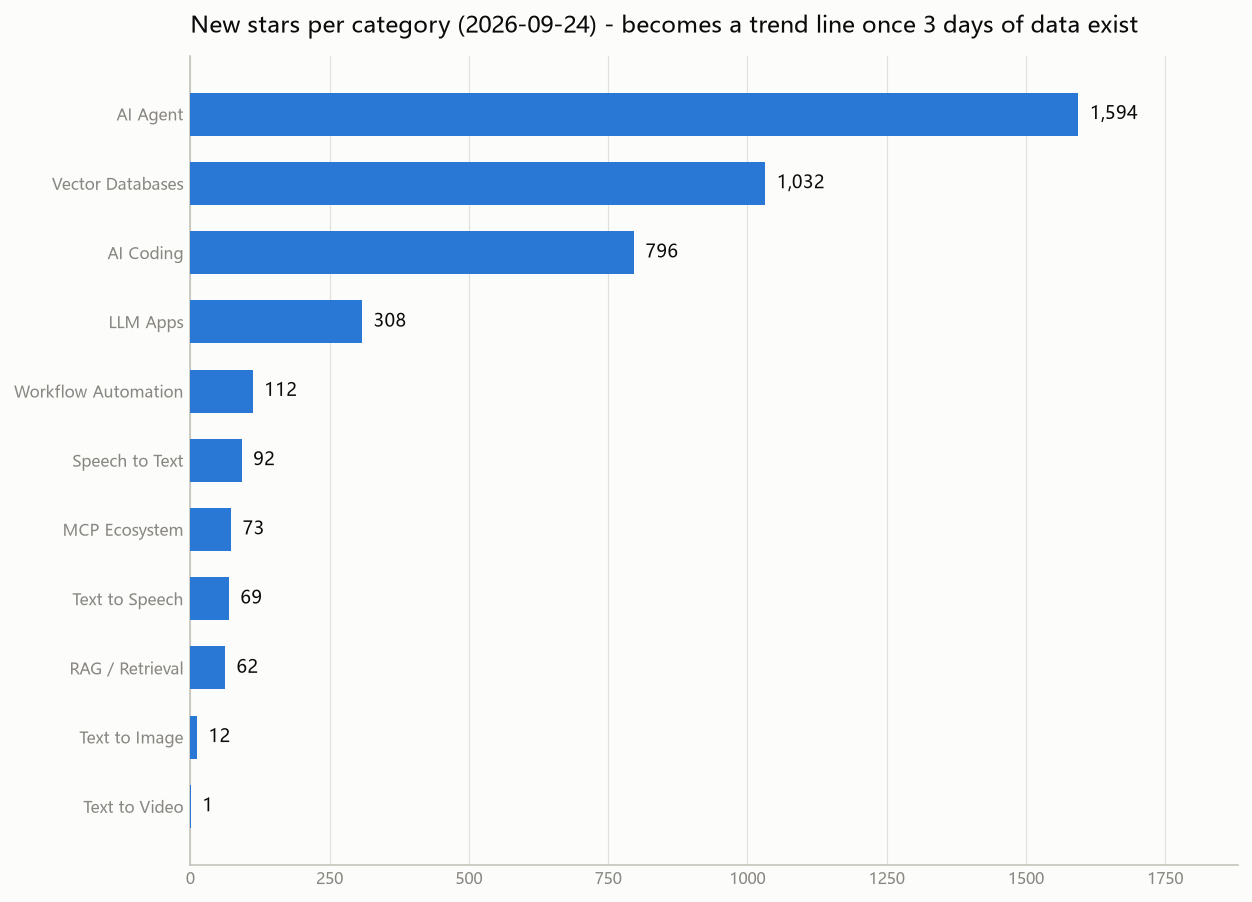
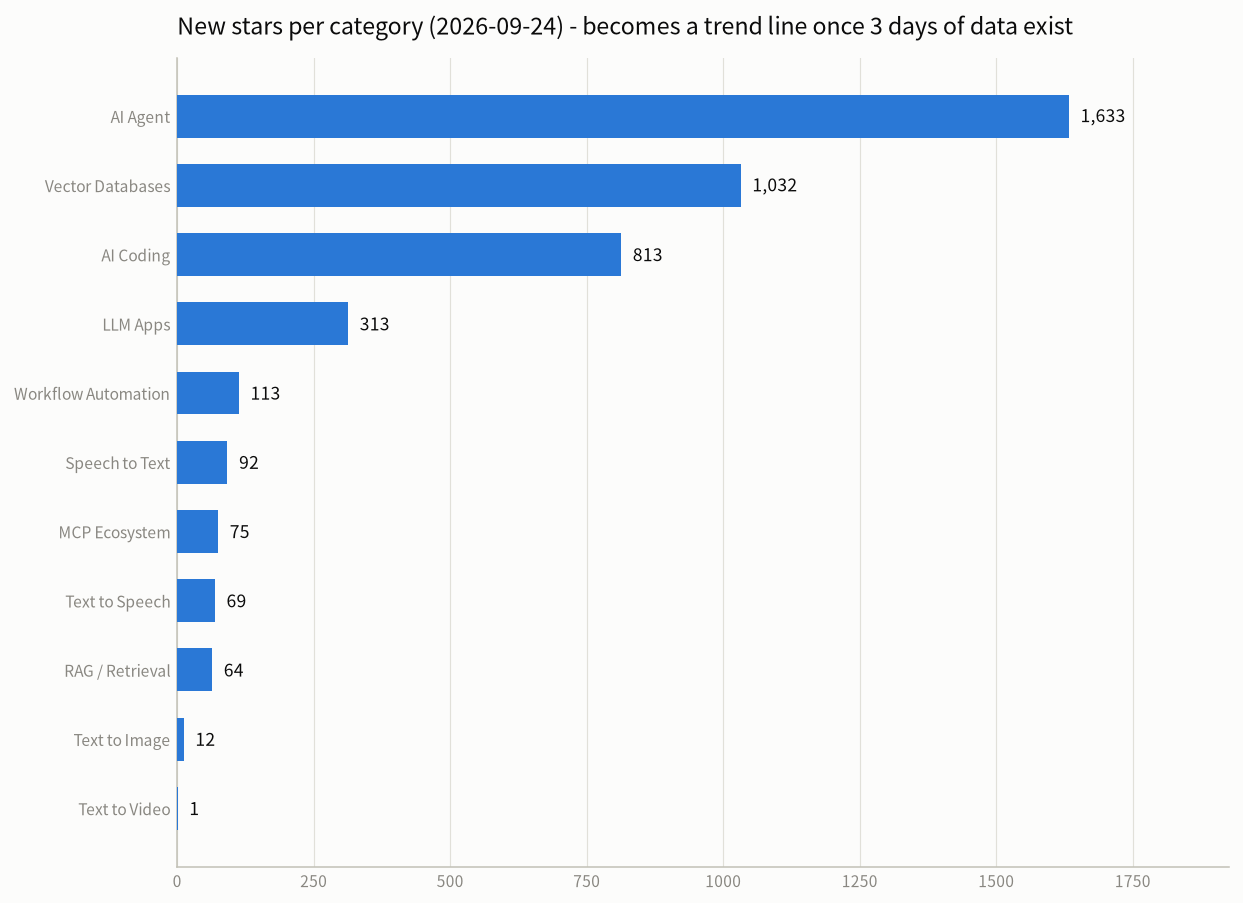
采集 2026-09-24

diff --git a/reports/2026-09-24.md b/reports/2026-09-24.md
@@ -8,7 +8,7 @@
 | AI 编程 | 25 | 28775 | 2026-05-13 | 0 |
 | LLM 应用 | 25 | 25101 | 2026-04-08 | 0 |
 | 语音合成 TTS | 25 | 7236 | 2026-05-20 | 0 |
-| MCP 生态 | 25 | 6416 | 2025-12-23 | 1 |
+| MCP 生态 | 25 | 6416 | 2025-12-23 | 0 |
 | RAG 检索增强 | 25 | 3115 | 2026-01-20 | 0 |
 | 语音识别 STT | 25 | 3030 | 2026-06-04 | 0 |
 | 向量数据库 | 25 | 2242 | 2026-03-16 | 0 |
@@ -21,45 +21,43 @@
 
 | 品类 | 项目 | star | 增量 | 说明 |
 |---|---|---|---|---|
-| 向量数据库 | [rocketride-org/rocketride-server](https://github.com/rocketride-org/rocketride-server) | 10470 | **+997** | High-performance AI pipeline engine with a C++ core and 50+ Python-ex… |
-| AI Agent | [DietrichGebert/ponytail](https://github.com/DietrichGebert/ponytail) | 145030 | **+376** | Makes your AI agent think like the laziest senior dev in the room. Th… |
-| AI Agent | [bojieli/ai-agent-book](https://github.com/bojieli/ai-agent-book) | 50468 | **+213** | 《深入理解 AI Agent：设计原理与工程实践》（李博杰 著）开源主仓库：全书正文、编译版 PDF 与按章配套代码 |
-| AI Agent | [earendil-works/pi](https://github.com/earendil-works/pi) | 108920 | **+192** | AI agent toolkit: unified LLM API, agent loop, TUI, coding agent CLI |
-| AI 编程 | [addyosmani/agent-skills](https://github.com/addyosmani/agent-skills) | 98717 | **+151** | Production-grade engineering skills for AI coding agents. |
-| AI 编程 | [Fission-AI/OpenSpec](https://github.com/Fission-AI/OpenSpec) | 70056 | **+133** | Spec-driven development (SDD) for AI coding assistants. |
-| AI Agent | [K-Dense-AI/scientific-agent-skills](https://github.com/K-Dense-AI/scientific-agent-skills) | 46345 | **+127** | Turn any AI agent into an AI Scientist. The #1 Agent Skills library f… |
-| AI Agent | [Panniantong/Agent-Reach](https://github.com/Panniantong/Agent-Reach) | 85104 | **+126** | Give your AI agent eyes to see the entire internet. Read & search Twi… |
-| AI Agent | [coreyhaines31/marketingskills](https://github.com/coreyhaines31/marketingskills) | 51335 | **+76** | Marketing skills for Claude Code and AI agents. CRO, copywriting, SEO… |
-| AI 编程 | [calesthio/OpenMontage](https://github.com/calesthio/OpenMontage) | 61052 | **+76** | World's first open-source, agentic video production system. 12 produc… |
-| AI Agent | [Shubhamsaboo/awesome-llm-apps](https://github.com/Shubhamsaboo/awesome-llm-apps) | 139568 | **+69** | 100+ AI Agents, Agent Skills and RAG Apps - Free and Open Source. |
-| LLM 应用 | [Shubhamsaboo/awesome-llm-apps](https://github.com/Shubhamsaboo/awesome-llm-apps) | 139568 | **+69** | 100+ AI Agents, Agent Skills and RAG Apps - Free and Open Source. |
-| AI 编程 | [career-ops-hq/career-ops](https://github.com/career-ops-hq/career-ops) | 72530 | **+64** | Open-source AI job search: scan job portals, evaluate listings into a… |
-| AI 编程 | [zhaoxuya520/reverse-skill](https://github.com/zhaoxuya520/reverse-skill) | 37001 | **+58** | Reverse Engineering / Authorized Penetration Testing / Security Resea… |
-| 工作流自动化 | [n8n-io/n8n](https://github.com/n8n-io/n8n) | 205807 | **+57** | Fair-code workflow automation platform with native AI capabilities. C… |
-| AI Agent | [karpathy/autoresearch](https://github.com/karpathy/autoresearch) | 96677 | **+53** | AI agents running research on single-GPU nanochat training automatica… |
-| AI Agent | [multica-ai/multica](https://github.com/multica-ai/multica) | 51238 | **+53** | Make humans and AI agents work as one team — open-source and self-hos… |
-| AI 编程 | [decolua/9router](https://github.com/decolua/9router) | 29692 | **+51** | Unlimited FREE AI coding. Connect Claude Code, Codex, Cursor, Cline, … |
-| AI Agent | [microsoft/ai-agents-for-beginners](https://github.com/microsoft/ai-agents-for-beginners) | 75527 | **+44** | 18 Lessons to Get Started Building AI Agents |
-| AI Agent | [mem0ai/mem0](https://github.com/mem0ai/mem0) | 65910 | **+43** | The Memory Layer for AI Agents - Drop-in memory infrastructure for AI… |
+| AI Agent | [DietrichGebert/ponytail](https://github.com/DietrichGebert/ponytail) | 145038 | **+8** | Makes your AI agent think like the laziest senior dev in the room. Th… |
+| AI Agent | [earendil-works/pi](https://github.com/earendil-works/pi) | 108928 | **+8** | AI agent toolkit: unified LLM API, agent loop, TUI, coding agent CLI |
+| AI Agent | [bojieli/ai-agent-book](https://github.com/bojieli/ai-agent-book) | 50475 | **+7** | 《深入理解 AI Agent：设计原理与工程实践》（李博杰 著）开源主仓库：全书正文、编译版 PDF 与按章配套代码 |
+| AI Agent | [K-Dense-AI/scientific-agent-skills](https://github.com/K-Dense-AI/scientific-agent-skills) | 46348 | **+3** | Turn any AI agent into an AI Scientist. The #1 Agent Skills library f… |
+| AI 编程 | [zhaoxuya520/reverse-skill](https://github.com/zhaoxuya520/reverse-skill) | 37004 | **+3** | Reverse Engineering / Authorized Penetration Testing / Security Resea… |
+| AI Agent | [Panniantong/Agent-Reach](https://github.com/Panniantong/Agent-Reach) | 85106 | **+2** | Give your AI agent eyes to see the entire internet. Read & search Twi… |
+| AI Agent | [OpenBB-finance/OpenBB](https://github.com/OpenBB-finance/OpenBB) | 73416 | **+2** | Open Data Platform for analysts, quants and AI agents. |
+| AI Agent | [coreyhaines31/marketingskills](https://github.com/coreyhaines31/marketingskills) | 51337 | **+2** | Marketing skills for Claude Code and AI agents. CRO, copywriting, SEO… |
+| AI Agent | [multica-ai/multica](https://github.com/multica-ai/multica) | 51240 | **+2** | Make humans and AI agents work as one team — open-source and self-hos… |
+| LLM 应用 | [AlexsJones/llmfit](https://github.com/AlexsJones/llmfit) | 37093 | **+2** | Hundreds of models & providers. One command to find what runs on your… |
+| AI 编程 | [career-ops-hq/career-ops](https://github.com/career-ops-hq/career-ops) | 72532 | **+2** | Open-source AI job search: scan job portals, evaluate listings into a… |
+| AI 编程 | [Fission-AI/OpenSpec](https://github.com/Fission-AI/OpenSpec) | 70058 | **+2** | Spec-driven development (SDD) for AI coding assistants. |
+| AI 编程 | [calesthio/OpenMontage](https://github.com/calesthio/OpenMontage) | 61054 | **+2** | World's first open-source, agentic video production system. 12 produc… |
+| AI 编程 | [decolua/9router](https://github.com/decolua/9router) | 29694 | **+2** | Unlimited FREE AI coding. Connect Claude Code, Codex, Cursor, Cline, … |
+| AI Agent | [Shubhamsaboo/awesome-llm-apps](https://github.com/Shubhamsaboo/awesome-llm-apps) | 139569 | **+1** | 100+ AI Agents, Agent Skills and RAG Apps - Free and Open Source. |
+| AI Agent | [karpathy/autoresearch](https://github.com/karpathy/autoresearch) | 96678 | **+1** | AI agents running research on single-GPU nanochat training automatica… |
+| AI Agent | [mvanhorn/last30days-skill](https://github.com/mvanhorn/last30days-skill) | 62722 | **+1** | AI agent skill that researches any topic across Reddit, X, YouTube, H… |
+| AI Agent | [HKUDS/nanobot](https://github.com/HKUDS/nanobot) | 48519 | **+1** | Ultra-lightweight, open-source, self-hosted personal AI agent framewo… |
+| AI Agent | [siyuan-note/siyuan](https://github.com/siyuan-note/siyuan) | 46482 | **+1** | An open-source, privacy-first, self-hosted knowledge workspace where … |
+| AI Agent | [AstrBotDevs/AstrBot](https://github.com/AstrBotDevs/AstrBot) | 40929 | **+1** | AI Agent Assistant & development framework that integrates lots of IM… |
 
 
 ## 新进入榜（上次没有、这次出现了）
 
-| 品类 | 项目 | star | 创建于 | 说明 |
-|---|---|---|---|---|
-| MCP 生态 | [getsentry/MobileBuildMCP](https://github.com/getsentry/MobileBuildMCP) | 6416 | 2025-03-09 | A Model Context Protocol (MCP) server and CLI that provides tools for… |
+（无）
 
 
 ## 近期新建（180 天内创建，按 star 排）
 
 | 品类 | 项目 | star | 创建于 | 说明 |
 |---|---|---|---|---|
-| AI Agent | [DietrichGebert/ponytail](https://github.com/DietrichGebert/ponytail) | 145030 | 2026-06-12 | Makes your AI agent think like the laziest senior dev in the room. Th… |
-| AI 编程 | [career-ops-hq/career-ops](https://github.com/career-ops-hq/career-ops) | 72530 | 2026-04-04 | Open-source AI job search: scan job portals, evaluate listings into a… |
-| AI 编程 | [calesthio/OpenMontage](https://github.com/calesthio/OpenMontage) | 61052 | 2026-03-29 | World's first open-source, agentic video production system. 12 produc… |
-| AI 编程 | [zhaoxuya520/reverse-skill](https://github.com/zhaoxuya520/reverse-skill) | 37001 | 2026-05-13 | Reverse Engineering / Authorized Penetration Testing / Security Resea… |
+| AI Agent | [DietrichGebert/ponytail](https://github.com/DietrichGebert/ponytail) | 145038 | 2026-06-12 | Makes your AI agent think like the laziest senior dev in the room. Th… |
+| AI 编程 | [career-ops-hq/career-ops](https://github.com/career-ops-hq/career-ops) | 72532 | 2026-04-04 | Open-source AI job search: scan job portals, evaluate listings into a… |
+| AI 编程 | [calesthio/OpenMontage](https://github.com/calesthio/OpenMontage) | 61054 | 2026-03-29 | World's first open-source, agentic video production system. 12 produc… |
+| AI 编程 | [zhaoxuya520/reverse-skill](https://github.com/zhaoxuya520/reverse-skill) | 37004 | 2026-05-13 | Reverse Engineering / Authorized Penetration Testing / Security Resea… |
 | AI 编程 | [esengine/DeepSeek-Reasonix](https://github.com/esengine/DeepSeek-Reasonix) | 35699 | 2026-04-21 | DeepSeek-native AI coding agent for your terminal. Engineered around … |
-| LLM 应用 | [nashsu/llm_wiki](https://github.com/nashsu/llm_wiki) | 19916 | 2026-04-08 | LLM Wiki is a cross-platform desktop application that turns your docu… |
+| LLM 应用 | [nashsu/llm_wiki](https://github.com/nashsu/llm_wiki) | 19915 | 2026-04-08 | LLM Wiki is a cross-platform desktop application that turns your docu… |
 | 工作流自动化 | [tradesdontlie/tradingview-mcp](https://github.com/tradesdontlie/tradingview-mcp) | 6629 | 2026-03-29 | AI-assisted TradingView chart analysis — connect Claude Code to your … |
 | 语音合成 TTS | [MisoLabsAI/MisoTTS](https://github.com/MisoLabsAI/MisoTTS) | 3239 | 2026-05-20 | Miso TTS is an 8 billion, highly emotive text-to-speech model |
 | 文生图 | [jd-opensource/JoyAI-Image](https://github.com/jd-opensource/JoyAI-Image) | 2158 | 2026-03-31 | JoyAI-Image is the unified multimodal foundation model for image unde… |
@@ -79,12 +77,12 @@
 | [CREEM 2.0](https://www.producthunt.com/products/creem) | 605 | 172 | 2026-09-17 | Fintech / Payment… | Sell and grow your AI built products |
 | [Mastra Factory](https://www.producthunt.com/products/mastra/launches/mastra-factory) | 572 | 131 | 2026-09-09 | Open Source / Dev… | From issue to production, run by agents. |
 | [Switch](https://www.producthunt.com/products/switch-11/launches/switch-14) | 544 | 95 | 2026-09-08 | Open Source / Dev… | Bring any AI agent into Slack, Teams & Discord |
-| [Voiskey](https://www.producthunt.com/products/voiskey) | 535 | 146 | 2026-09-15 | Productivity / Ar… | AI voice typing that sounds right in every app |
 | [Naoma AI Demo Agent V2](https://www.producthunt.com/products/naoma) | 535 | 169 | 2026-09-14 | Sales / Marketing… | Turns website traffic into booked, qualified meetings |
+| [Voiskey](https://www.producthunt.com/products/voiskey) | 535 | 146 | 2026-09-15 | Productivity / Ar… | AI voice typing that sounds right in every app |
 | [Jev](https://www.producthunt.com/products/jev-2) | 533 | 15 | 2026-09-21 | API / Developer T… | Fast, structured AI decisions for software automation |
 | [Kilo Code for JetBrains](https://www.producthunt.com/products/kilocode/launches/kilo-code-for-jetbrains-2) | 533 | 95 | 2026-09-01 | Open Source / Sof… | Fully native, open-source coding agent built for JetBr… |
-| [x1](https://www.producthunt.com/products/x1-2/launches/x1-2) | 532 | 78 | 2026-08-26 | iOS / No-Code / V… | Lovable for iPhone apps go from idea to App Store |
 | [Clueso MCP](https://www.producthunt.com/products/clueso) | 532 | 158 | 2026-09-22 | Artificial Intell… | Create and edit videos by chatting |
+| [x1](https://www.producthunt.com/products/x1-2/launches/x1-2) | 532 | 78 | 2026-08-26 | iOS / No-Code / V… | Lovable for iPhone apps go from idea to App Store |
 | [GPT-6 Astra](https://www.producthunt.com/products/openai/launches/gpt-6-astra-2) | 527 | 20 | 2026-09-04 | Productivity / De… | OpenAI's most capable model for end-to-end work |
 | [Superset Mobile](https://www.producthunt.com/products/superset-5) | 504 | 135 | 2026-09-21 | iOS / Artificial … | Your coding agents, now in your pocket |
 | [Monid](https://www.producthunt.com/products/monid/launches/monid-3) | 502 | 57 | 2026-09-02 | API / Developer T… | OpenRouter for agent tools |
@@ -99,18 +97,13 @@
 
 | 标题 | 点数 | 评论 | 发布 |
 |---|---|---|---|
-| 🆕 [Show HN: An atlas of system designs with interactive architectur…](https://atlas-sysdes.vercel.app/) | 33 | 18 | 2026-09-22 |
-| 🆕 [Show HN: I built a post-mortem debugger for native Windows x64/x…](https://www.forensicdbg.com) | 26 | 4 | 2026-09-23 |
-| 🆕 [Show HN: Conway's Game of Life in boot sector](https://github.com/0xAX/BootLife) | 25 | 3 | 2026-09-21 |
-| 🆕 [Show HN: RxFilm Studio–Create and edit your product videos with …](https://filmstudio.rxlab.app) | 19 | 14 | 2026-09-23 |
-| 🆕 [Show HN: Ive Sent It – online courier for files, with signed pro…](https://ivesentit.com) | 18 | 22 | 2026-09-23 |
 | [Show HN: Mini-AGI – Dynamic continual learning model trained on …](https://github.com/volotat/mini-AGI/) | 276 | 76 | 2026-09-21 |
 | [Show HN: Share your AI Setup, Learn from others](https://mysetup.ai/) | 250 | 139 | 2026-09-17 |
 | [Show HN: Cactus Needle 3: 8-29MB automation models can match Dee…](https://cactuscompute.com/needle) | 236 | 92 | 2026-09-18 |
 | [Show HN: Drop – A rootless Linux sandbox with gVisor support](https://droprun.sh/) | 185 | 62 | 2026-09-22 |
 | [Show HN: Radius – A Meetup.com Alternative](https://radius.to/) | 166 | 83 | 2026-09-20 |
 | [Show HN: JevBench, a reproducible benchmark for typed decision m…](https://benchmarkheaven.com/jev-models) | 139 | 36 | 2026-09-22 |
-| [Show HN: A competition for small neural networks that play strat…](https://tinybrains.dev) | 112 | 41 | 2026-09-20 |
+| [Show HN: A competition for small neural networks that play strat…](https://tinybrains.dev) | 113 | 41 | 2026-09-20 |
 | [Show HN: Snapdrop: Instantly share files between devices. No set…](https://snapdrop.me) | 111 | 51 | 2026-09-17 |
 | [Show HN: I built a new version of my fun spatial 3D online meeti…](https://flat.social) | 98 | 53 | 2026-09-17 |
 | [Show HN: Microsoft Office running with Wine on Linux with no vir…](https://github.com/Tombert/office365_flake) | 96 | 90 | 2026-09-17 |
@@ -124,15 +117,16 @@
 | [Show HN: Foremerge – Catch intent conflicts between parallel cod…](https://github.com/naw103/foremerge) | 45 | 19 | 2026-09-21 |
 | [Show HN: AI·rete·RAG – a Rete rule engine decides, RAG explains …](https://ai-rete-rag.com/) | 43 | 8 | 2026-09-22 |
 | [Show HN: LiveWorld – Every 24/7 YouTube live camera on one globe](https://liveworld.info/) | 42 | 37 | 2026-09-19 |
+| [Show HN: Ax-check.com – Can agents use your product?](https://www.ax-check.com/) | 37 | 41 | 2026-09-17 |
+| [Show HN: Aclif – Agent CLI framework: one grammar, canonical nam…](https://www.aclif.ai/) | 35 | 18 | 2026-09-17 |
+| [Show HN: An atlas of system designs with interactive architectur…](https://atlas-sysdes.vercel.app/) | 33 | 18 | 2026-09-22 |
+| [Show HN: A website that tracks US food prices every day](https://www.kadoa.com/food-prices) | 29 | 10 | 2026-09-21 |
+| [Show HN: Craigslist for agent skills, curated by a human](https://skillbay.sh/) | 28 | 18 | 2026-09-17 |
 
 
 ## Hacker News 新讨论
 
-| 品类 | 标题 | 点数 | 评论 | 日期 |
-|---|---|---|---|---|
-| 语音合成 TTS | [Gemini 3.8 text-to-speech](https://blog.google/innovation-and-ai/models-and-research/gemini-models/gemini-3-8-text-to-speech/) | 249 | 121 | 2026-09-23 |
-| 语音识别 STT | [Gemini 3.8 text-to-speech](https://blog.google/innovation-and-ai/models-and-research/gemini-models/gemini-3-8-text-to-speech/) | 249 | 121 | 2026-09-23 |
-| AI 编程 | [Show HN: Friday – Self-hosted persistent memory for AI codi…](https://github.com/itskie/friday) | 9 | 4 | 2026-09-16 |
+（无新讨论）
 
 
 ---
@@ -143,30 +137,30 @@
 
 | 项目 | star | fork | 最近提交 | 说明 |
 |---|---|---|---|---|
-| [DietrichGebert/ponytail](https://github.com/DietrichGebert/ponytail) | 145030 | 7773 | 2026-09-14 | Makes your AI agent think like the laziest senior dev in th… |
-| [Shubhamsaboo/awesome-llm-apps](https://github.com/Shubhamsaboo/awesome-llm-apps) | 139568 | 20510 | 2026-09-23 | 100+ AI Agents, Agent Skills and RAG Apps - Free and Open S… |
-| [earendil-works/pi](https://github.com/earendil-works/pi) | 108920 | 13829 | 2026-09-23 | AI agent toolkit: unified LLM API, agent loop, TUI, coding … |
+| [DietrichGebert/ponytail](https://github.com/DietrichGebert/ponytail) | 145038 | 7774 | 2026-09-14 | Makes your AI agent think like the laziest senior dev in th… |
+| [Shubhamsaboo/awesome-llm-apps](https://github.com/Shubhamsaboo/awesome-llm-apps) | 139569 | 20510 | 2026-09-23 | 100+ AI Agents, Agent Skills and RAG Apps - Free and Open S… |
+| [earendil-works/pi](https://github.com/earendil-works/pi) | 108928 | 13831 | 2026-09-23 | AI agent toolkit: unified LLM API, agent loop, TUI, coding … |
 | [google-gemini/gemini-cli](https://github.com/google-gemini/gemini-cli) | 107140 | 14623 | 2026-09-24 | An open-source AI agent that brings the power of Gemini dir… |
-| [karpathy/autoresearch](https://github.com/karpathy/autoresearch) | 96677 | 13521 | 2026-03-26 | AI agents running research on single-GPU nanochat training … |
-| [Panniantong/Agent-Reach](https://github.com/Panniantong/Agent-Reach) | 85104 | 7470 | 2026-09-15 | Give your AI agent eyes to see the entire internet. Read & … |
+| [karpathy/autoresearch](https://github.com/karpathy/autoresearch) | 96678 | 13522 | 2026-03-26 | AI agents running research on single-GPU nanochat training … |
+| [Panniantong/Agent-Reach](https://github.com/Panniantong/Agent-Reach) | 85106 | 7471 | 2026-09-15 | Give your AI agent eyes to see the entire internet. Read & … |
 | [dair-ai/Prompt-Engineering-Guide](https://github.com/dair-ai/Prompt-Engineering-Guide) | 78579 | 8639 | 2026-03-11 | 🐙 Guides, papers, lessons, notebooks and resources for prom… |
 | [microsoft/ai-agents-for-beginners](https://github.com/microsoft/ai-agents-for-beginners) | 75527 | 24859 | 2026-09-19 | 18 Lessons to Get Started Building AI Agents |
 | [thedaviddias/Front-End-Checklist](https://github.com/thedaviddias/Front-End-Checklist) | 74247 | 6747 | 2026-08-14 | 🗂 The essential checklist for modern web development, for h… |
-| [OpenBB-finance/OpenBB](https://github.com/OpenBB-finance/OpenBB) | 73414 | 7598 | 2026-09-23 | Open Data Platform for analysts, quants and AI agents. |
-| [mem0ai/mem0](https://github.com/mem0ai/mem0) | 65910 | 7749 | 2026-09-23 | The Memory Layer for AI Agents - Drop-in memory infrastruct… |
-| [mvanhorn/last30days-skill](https://github.com/mvanhorn/last30days-skill) | 62721 | 5460 | 2026-09-23 | AI agent skill that researches any topic across Reddit, X, … |
-| [crewAIInc/crewAI](https://github.com/crewAIInc/crewAI) | 58957 | 8558 | 2026-09-23 | Framework for orchestrating role-playing, autonomous AI age… |
-| [FlowiseAI/Flowise](https://github.com/FlowiseAI/Flowise) | 55477 | 25052 | 2026-08-13 | Build AI Agents, Visually |
+| [OpenBB-finance/OpenBB](https://github.com/OpenBB-finance/OpenBB) | 73416 | 7598 | 2026-09-23 | Open Data Platform for analysts, quants and AI agents. |
+| [mem0ai/mem0](https://github.com/mem0ai/mem0) | 65910 | 7748 | 2026-09-23 | The Memory Layer for AI Agents - Drop-in memory infrastruct… |
+| [mvanhorn/last30days-skill](https://github.com/mvanhorn/last30days-skill) | 62722 | 5460 | 2026-09-23 | AI agent skill that researches any topic across Reddit, X, … |
+| [crewAIInc/crewAI](https://github.com/crewAIInc/crewAI) | 58957 | 8559 | 2026-09-23 | Framework for orchestrating role-playing, autonomous AI age… |
+| [FlowiseAI/Flowise](https://github.com/FlowiseAI/Flowise) | 55476 | 25052 | 2026-08-13 | Build AI Agents, Visually |
 | [aaif-goose/goose](https://github.com/aaif-goose/goose) | 54597 | 6304 | 2026-09-23 | an open source, extensible AI agent that goes beyond code s… |
-| [coreyhaines31/marketingskills](https://github.com/coreyhaines31/marketingskills) | 51335 | 7758 | 2026-09-05 | Marketing skills for Claude Code and AI agents. CRO, copywr… |
-| [multica-ai/multica](https://github.com/multica-ai/multica) | 51238 | 6638 | 2026-09-23 | Make humans and AI agents work as one team — open-source an… |
-| [bojieli/ai-agent-book](https://github.com/bojieli/ai-agent-book) | 50468 | 5658 | 2026-09-23 | 《深入理解 AI Agent：设计原理与工程实践》（李博杰 著）开源主仓库：全书正文、编译版 PDF 与按章配套代码 |
-| [HKUDS/nanobot](https://github.com/HKUDS/nanobot) | 48518 | 8576 | 2026-09-23 | Ultra-lightweight, open-source, self-hosted personal AI age… |
-| [siyuan-note/siyuan](https://github.com/siyuan-note/siyuan) | 46481 | 3019 | 2026-09-24 | An open-source, privacy-first, self-hosted knowledge worksp… |
-| [K-Dense-AI/scientific-agent-skills](https://github.com/K-Dense-AI/scientific-agent-skills) | 46345 | 4195 | 2026-09-21 | Turn any AI agent into an AI Scientist. The #1 Agent Skills… |
+| [coreyhaines31/marketingskills](https://github.com/coreyhaines31/marketingskills) | 51337 | 7758 | 2026-09-05 | Marketing skills for Claude Code and AI agents. CRO, copywr… |
+| [multica-ai/multica](https://github.com/multica-ai/multica) | 51240 | 6638 | 2026-09-23 | Make humans and AI agents work as one team — open-source an… |
+| [bojieli/ai-agent-book](https://github.com/bojieli/ai-agent-book) | 50475 | 5659 | 2026-09-23 | 《深入理解 AI Agent：设计原理与工程实践》（李博杰 著）开源主仓库：全书正文、编译版 PDF 与按章配套代码 |
+| [HKUDS/nanobot](https://github.com/HKUDS/nanobot) | 48519 | 8577 | 2026-09-23 | Ultra-lightweight, open-source, self-hosted personal AI age… |
+| [siyuan-note/siyuan](https://github.com/siyuan-note/siyuan) | 46482 | 3019 | 2026-09-24 | An open-source, privacy-first, self-hosted knowledge worksp… |
+| [K-Dense-AI/scientific-agent-skills](https://github.com/K-Dense-AI/scientific-agent-skills) | 46348 | 4195 | 2026-09-21 | Turn any AI agent into an AI Scientist. The #1 Agent Skills… |
 | [vercel-labs/agent-browser](https://github.com/vercel-labs/agent-browser) | 43124 | 2895 | 2026-09-23 | Browser automation CLI for AI agents |
 | [ToolJet/ToolJet](https://github.com/ToolJet/ToolJet) | 40984 | 5454 | 2026-09-23 | Open-source foundation of ToolJet AI - the enterprise app g… |
-| [AstrBotDevs/AstrBot](https://github.com/AstrBotDevs/AstrBot) | 40928 | 2967 | 2026-09-23 | AI Agent Assistant & development framework that integrates … |
+| [AstrBotDevs/AstrBot](https://github.com/AstrBotDevs/AstrBot) | 40929 | 2969 | 2026-09-23 | AI Agent Assistant & development framework that integrates … |
 | [bytedance/UI-TARS-desktop](https://github.com/bytedance/UI-TARS-desktop) | 39100 | 3961 | 2026-09-11 | The Open-Source Multimodal AI Agent Stack: Connecting Cutti… |
 
 
@@ -190,24 +184,24 @@ HN 讨论：
 
 | 项目 | star | fork | 最近提交 | 说明 |
 |---|---|---|---|---|
-| [Shubhamsaboo/awesome-llm-apps](https://github.com/Shubhamsaboo/awesome-llm-apps) | 139568 | 20510 | 2026-09-23 | 100+ AI Agents, Agent Skills and RAG Apps - Free and Open S… |
-| [rasbt/LLMs-from-scratch](https://github.com/rasbt/LLMs-from-scratch) | 105471 | 16186 | 2026-09-22 | Implement a ChatGPT-like LLM in PyTorch from scratch, step … |
+| [Shubhamsaboo/awesome-llm-apps](https://github.com/Shubhamsaboo/awesome-llm-apps) | 139569 | 20510 | 2026-09-23 | 100+ AI Agents, Agent Skills and RAG Apps - Free and Open S… |
+| [rasbt/LLMs-from-scratch](https://github.com/rasbt/LLMs-from-scratch) | 105472 | 16186 | 2026-09-22 | Implement a ChatGPT-like LLM in PyTorch from scratch, step … |
 | [mlabonne/llm-course](https://github.com/mlabonne/llm-course) | 83109 | 9673 | 2026-02-05 | Course to get into Large Language Models (LLMs) with roadma… |
 | [Mintplex-Labs/anything-llm](https://github.com/Mintplex-Labs/anything-llm) | 66380 | 7391 | 2026-09-24 | Stop renting your intelligence. Own it with AnythingLLM. Ev… |
 | [pathwaycom/llm-app](https://github.com/pathwaycom/llm-app) | 58904 | 1500 | 2026-07-05 | Ready-to-run cloud templates for RAG, AI pipelines, and ent… |
 | [Lordog/dive-into-llms](https://github.com/Lordog/dive-into-llms) | 55154 | 6581 | 2025-10-10 | 《动手学大模型Dive into LLMs》系列编程实践教程 |
 | [karpathy/LLM101n](https://github.com/karpathy/LLM101n) | 37488 | 2084 | 2024-08-01 | LLM101n: Let's build a Storyteller |
-| [AlexsJones/llmfit](https://github.com/AlexsJones/llmfit) | 37091 | 2366 | 2026-09-21 | Hundreds of models & providers. One command to find what ru… |
+| [AlexsJones/llmfit](https://github.com/AlexsJones/llmfit) | 37093 | 2366 | 2026-09-21 | Hundreds of models & providers. One command to find what ru… |
 | [datawhalechina/happy-llm](https://github.com/datawhalechina/happy-llm) | 34021 | 3214 | 2026-08-08 | 📚 从零开始构建大模型 |
 | [datawhalechina/self-llm](https://github.com/datawhalechina/self-llm) | 32314 | 3125 | 2026-09-12 | 《开源大模型食用指南》针对中国宝宝量身打造的基于Linux环境快速微调（全参数/Lora）、部署国内外开源大模型（LL… |
-| [karpathy/llm.c](https://github.com/karpathy/llm.c) | 31049 | 3766 | 2025-06-26 | LLM training in simple, raw C/CUDA |
+| [karpathy/llm.c](https://github.com/karpathy/llm.c) | 31050 | 3766 | 2025-06-26 | LLM training in simple, raw C/CUDA |
 | [Hannibal046/Awesome-LLM](https://github.com/Hannibal046/Awesome-LLM) | 27421 | 2728 | 2025-07-31 | Awesome-LLM: a curated list of Large Language Model |
 | [liguodongiot/llm-action](https://github.com/liguodongiot/llm-action) | 25101 | 2847 | 2026-07-19 | 本项目旨在分享大模型相关技术原理以及实战经验（大模型工程化、大模型应用落地） |
-| [karpathy/llm-council](https://github.com/karpathy/llm-council) | 24970 | 4366 | 2025-11-22 | LLM Council works together to answer your hardest questions |
+| [karpathy/llm-council](https://github.com/karpathy/llm-council) | 24971 | 4366 | 2025-11-22 | LLM Council works together to answer your hardest questions |
 | [datawhalechina/llm-cookbook](https://github.com/datawhalechina/llm-cookbook) | 24754 | 2969 | 2025-06-12 | 面向开发者的 LLM 入门教程，吴恩达大模型系列课程中文版 |
-| [mlc-ai/mlc-llm](https://github.com/mlc-ai/mlc-llm) | 23184 | 2138 | 2026-08-17 | Universal LLM Deployment Engine with ML Compilation |
+| [mlc-ai/mlc-llm](https://github.com/mlc-ai/mlc-llm) | 23184 | 2137 | 2026-08-17 | Universal LLM Deployment Engine with ML Compilation |
 | [AiHubCN/Awesome-Chinese-LLM](https://github.com/AiHubCN/Awesome-Chinese-LLM) | 22772 | 2140 | 2026-05-10 | 整理开源的中文大语言模型，以规模较小、可私有化部署、训练成本较低的模型为主，包括底座模型，垂直领域微调及应用，数据集与… |
-| [nashsu/llm_wiki](https://github.com/nashsu/llm_wiki) | 19916 | 2256 | 2026-08-25 | LLM Wiki is a cross-platform desktop application that turns… |
+| [nashsu/llm_wiki](https://github.com/nashsu/llm_wiki) | 19915 | 2256 | 2026-08-25 | LLM Wiki is a cross-platform desktop application that turns… |
 | [mlc-ai/web-llm](https://github.com/mlc-ai/web-llm) | 19175 | 1384 | 2026-09-15 | High-performance In-browser LLM Inference Engine |
 | [ZJU-LLMs/Foundations-of-LLMs](https://github.com/ZJU-LLMs/Foundations-of-LLMs) | 18003 | 1695 | 2025-12-12 | A book for Learning the Foundations of LLMs |
 | [wdndev/llm_interview_note](https://github.com/wdndev/llm_interview_note) | 15154 | 1475 | 2026-06-14 | 主要记录大语言大模型（LLMs） 算法（应用）工程师相关的知识及面试题 |
@@ -237,8 +231,8 @@ HN 讨论：
 
 | 项目 | star | fork | 最近提交 | 说明 |
 |---|---|---|---|---|
-| [infiniflow/ragflow](https://github.com/infiniflow/ragflow) | 91231 | 10814 | 2026-09-23 | RAGFlow is a leading open-source Retrieval-Augmented Genera… |
-| [HKUDS/LightRAG](https://github.com/HKUDS/LightRAG) | 39834 | 5615 | 2026-09-23 | [EMNLP2025] LightRAG: Simple and Fast Retrieval-Augmented G… |
+| [infiniflow/ragflow](https://github.com/infiniflow/ragflow) | 91232 | 10814 | 2026-09-23 | RAGFlow is a leading open-source Retrieval-Augmented Genera… |
+| [HKUDS/LightRAG](https://github.com/HKUDS/LightRAG) | 39835 | 5615 | 2026-09-24 | [EMNLP2025] LightRAG: Simple and Fast Retrieval-Augmented G… |
 | [microsoft/graphrag](https://github.com/microsoft/graphrag) | 36083 | 3800 | 2026-09-23 | A modular graph-based Retrieval-Augmented Generation (RAG) … |
 | [NirDiamant/RAG_Techniques](https://github.com/NirDiamant/RAG_Techniques) | 29587 | 3621 | 2026-09-21 | This repository showcases various advanced techniques for R… |
 | [SciPhi-AI/R2R](https://github.com/SciPhi-AI/R2R) | 8003 | 650 | 2025-11-07 | SoTA production-ready AI retrieval system. Agentic Retrieva… |
@@ -276,29 +270,29 @@ HN 讨论：
 
 | 项目 | star | fork | 最近提交 | 说明 |
 |---|---|---|---|---|
-| [x1xhlol/system-prompts-and-models-of-ai-tools](https://github.com/x1xhlol/system-prompts-and-models-of-ai-tools) | 143835 | 34815 | 2026-08-11 | FULL Augment Code, Claude Code, Cluely, CodeBuddy, Comet, C… |
-| [addyosmani/agent-skills](https://github.com/addyosmani/agent-skills) | 98717 | 10371 | 2026-09-23 | Production-grade engineering skills for AI coding agents. |
-| [career-ops-hq/career-ops](https://github.com/career-ops-hq/career-ops) | 72530 | 13645 | 2026-09-23 | Open-source AI job search: scan job portals, evaluate listi… |
-| [Fission-AI/OpenSpec](https://github.com/Fission-AI/OpenSpec) | 70056 | 4793 | 2026-09-23 | Spec-driven development (SDD) for AI coding assistants. |
-| [upstash/context7](https://github.com/upstash/context7) | 62370 | 3027 | 2026-09-24 | Context7 Platform -- Up-to-date code documentation for LLMs… |
-| [calesthio/OpenMontage](https://github.com/calesthio/OpenMontage) | 61052 | 7764 | 2026-09-06 | World's first open-source, agentic video production system.… |
-| [zhaoxuya520/reverse-skill](https://github.com/zhaoxuya520/reverse-skill) | 37001 | 5150 | 2026-09-22 | Reverse Engineering / Authorized Penetration Testing / Secu… |
+| [x1xhlol/system-prompts-and-models-of-ai-tools](https://github.com/x1xhlol/system-prompts-and-models-of-ai-tools) | 143835 | 34816 | 2026-08-11 | FULL Augment Code, Claude Code, Cluely, CodeBuddy, Comet, C… |
+| [addyosmani/agent-skills](https://github.com/addyosmani/agent-skills) | 98718 | 10371 | 2026-09-23 | Production-grade engineering skills for AI coding agents. |
+| [career-ops-hq/career-ops](https://github.com/career-ops-hq/career-ops) | 72532 | 13645 | 2026-09-23 | Open-source AI job search: scan job portals, evaluate listi… |
+| [Fission-AI/OpenSpec](https://github.com/Fission-AI/OpenSpec) | 70058 | 4793 | 2026-09-23 | Spec-driven development (SDD) for AI coding assistants. |
+| [upstash/context7](https://github.com/upstash/context7) | 62371 | 3027 | 2026-09-24 | Context7 Platform -- Up-to-date code documentation for LLMs… |
+| [calesthio/OpenMontage](https://github.com/calesthio/OpenMontage) | 61054 | 7764 | 2026-09-06 | World's first open-source, agentic video production system.… |
+| [zhaoxuya520/reverse-skill](https://github.com/zhaoxuya520/reverse-skill) | 37004 | 5150 | 2026-09-22 | Reverse Engineering / Authorized Penetration Testing / Secu… |
 | [esengine/DeepSeek-Reasonix](https://github.com/esengine/DeepSeek-Reasonix) | 35699 | 2420 | 2026-09-24 | DeepSeek-native AI coding agent for your terminal. Engineer… |
 | [JCodesMore/ai-website-cloner-template](https://github.com/JCodesMore/ai-website-cloner-template) | 34854 | 5075 | 2026-09-20 | Clone any website with one command using AI coding agents |
 | [TabbyML/tabby](https://github.com/TabbyML/tabby) | 33890 | 1786 | 2026-06-30 | Self-hosted AI coding assistant |
 | [tirth8205/code-review-graph](https://github.com/tirth8205/code-review-graph) | 31746 | 2904 | 2026-09-18 | Local-first code intelligence graph for MCP and CLI. Builds… |
-| [decolua/9router](https://github.com/decolua/9router) | 29692 | 5573 | 2026-09-23 | Unlimited FREE AI coding. Connect Claude Code, Codex, Curso… |
+| [decolua/9router](https://github.com/decolua/9router) | 29694 | 5573 | 2026-09-23 | Unlimited FREE AI coding. Connect Claude Code, Codex, Curso… |
 | [rohitg00/agentmemory](https://github.com/rohitg00/agentmemory) | 28775 | 2497 | 2026-09-21 | #1 Persistent memory for AI coding agents based on real-wor… |
 | [QwenLM/qwen-code](https://github.com/QwenLM/qwen-code) | 28101 | 3095 | 2026-09-24 | An open-source AI coding agent that lives in your terminal. |
-| [manaflow-ai/cmux](https://github.com/manaflow-ai/cmux) | 27371 | 2395 | 2026-09-24 | Open source Ghostty-based macOS terminal with vertical tabs… |
-| [OthmanAdi/planning-with-files](https://github.com/OthmanAdi/planning-with-files) | 27093 | 2256 | 2026-09-23 | Persistent file-based planning for AI coding agents and lon… |
-| [mksglu/context-mode](https://github.com/mksglu/context-mode) | 23996 | 1732 | 2026-09-23 | Context window optimization for AI coding agents. Sandboxes… |
+| [manaflow-ai/cmux](https://github.com/manaflow-ai/cmux) | 27372 | 2395 | 2026-09-24 | Open source Ghostty-based macOS terminal with vertical tabs… |
+| [OthmanAdi/planning-with-files](https://github.com/OthmanAdi/planning-with-files) | 27094 | 2256 | 2026-09-23 | Persistent file-based planning for AI coding agents and lon… |
+| [mksglu/context-mode](https://github.com/mksglu/context-mode) | 23997 | 1732 | 2026-09-23 | Context window optimization for AI coding agents. Sandboxes… |
 | [coleam00/Archon](https://github.com/coleam00/Archon) | 23536 | 3480 | 2026-09-23 | The first open-source harness builder for AI coding. Make A… |
 | [labring/sealos](https://github.com/labring/sealos) | 18356 | 2480 | 2026-09-23 | Deploy real projects from GitHub or your AI coding agent, t… |
 | [GLips/Figma-Context-MCP](https://github.com/GLips/Figma-Context-MCP) | 15901 | 1263 | 2026-09-18 | MCP server to provide Figma layout information to AI coding… |
 | [plandex-ai/plandex](https://github.com/plandex-ai/plandex) | 15654 | 1173 | 2025-10-03 | Open source AI coding agent. Designed for large projects an… |
 | [chenhg5/cc-connect](https://github.com/chenhg5/cc-connect) | 15651 | 1578 | 2026-09-22 | Bridge local AI coding agents (Claude Code, Cursor, Gemini … |
-| [greensock/gsap-skills](https://github.com/greensock/gsap-skills) | 15619 | 922 | 2026-07-29 | Official AI skills for GSAP. These skills teach AI coding a… |
+| [greensock/gsap-skills](https://github.com/greensock/gsap-skills) | 15620 | 922 | 2026-07-29 | Official AI skills for GSAP. These skills teach AI coding a… |
 | [AndyMik90/Aperant](https://github.com/AndyMik90/Aperant) | 14570 | 1914 | 2026-06-14 | Autonomous multi-session AI coding |
 | [coleam00/context-engineering-intro](https://github.com/coleam00/context-engineering-intro) | 13875 | 2724 | 2026-03-16 | Context engineering is the new vibe coding - it's the way t… |
 
@@ -412,7 +406,7 @@ HN 讨论：
 | [coqui-ai/TTS](https://github.com/coqui-ai/TTS) | 46055 | 6159 | 2024-08-16 | 🐸💬 - a deep learning toolkit for Text-to-Speech, battle-tes… |
 | [index-tts/index-tts](https://github.com/index-tts/index-tts) | 24158 | 2875 | 2026-08-18 | An Industrial-Level Controllable and Efficient Zero-Shot Te… |
 | [NVIDIA-NeMo/Speech](https://github.com/NVIDIA-NeMo/Speech) | 18495 | 3613 | 2026-09-23 | A scalable generative AI framework built for researchers an… |
-| [k2-fsa/sherpa-onnx](https://github.com/k2-fsa/sherpa-onnx) | 14939 | 1714 | 2026-09-22 | Speech-to-text, text-to-speech, speaker diarization, speech… |
+| [k2-fsa/sherpa-onnx](https://github.com/k2-fsa/sherpa-onnx) | 14939 | 1715 | 2026-09-22 | Speech-to-text, text-to-speech, speaker diarization, speech… |
 | [rany2/edge-tts](https://github.com/rany2/edge-tts) | 12006 | 1113 | 2026-03-22 | Use Microsoft Edge's online text-to-speech service from Pyt… |
 | [rhasspy/piper](https://github.com/rhasspy/piper) | 11288 | 1083 | 2025-08-26 | A fast, local neural text to speech system |
 | [moonshine-ai/moonshine](https://github.com/moonshine-ai/moonshine) | 11131 | 616 | 2026-08-31 | Very low latency speech to text, intent recognition, and te… |
@@ -440,7 +434,7 @@ HN 讨论：
 
 | 标题 | 点数 | 评论 |
 |---|---|---|
-| [Gemini 3.8 text-to-speech](https://blog.google/innovation-and-ai/models-and-research/gemini-models/gemini-3-8-text-to-speech/) | 249 | 121 |
+| [Gemini 3.8 text-to-speech](https://blog.google/innovation-and-ai/models-and-research/gemini-models/gemini-3-8-text-to-speech/) | 250 | 124 |
 | [Show HN: Nari Qwen3-TTS and Qwen3-ASR – High accuracy, low …](https://narilabs.com/blog/nari-labs-leads-coval-voice-ai-benchmarks/) | 91 | 31 |
 
 
@@ -450,12 +444,12 @@ HN 讨论：
 |---|---|---|---|---|
 | [cjpais/Handy](https://github.com/cjpais/Handy) | 32100 | 2939 | 2026-09-19 | A free, open source, and extensible speech-to-text applicat… |
 | [mozilla/DeepSpeech](https://github.com/mozilla/DeepSpeech) | 26774 | 4073 | 2025-06-19 | DeepSpeech is an open source embedded (offline, on-device) … |
-| [k2-fsa/sherpa-onnx](https://github.com/k2-fsa/sherpa-onnx) | 14939 | 1714 | 2026-09-22 | Speech-to-text, text-to-speech, speaker diarization, speech… |
+| [k2-fsa/sherpa-onnx](https://github.com/k2-fsa/sherpa-onnx) | 14939 | 1715 | 2026-09-22 | Speech-to-text, text-to-speech, speaker diarization, speech… |
 | [moonshine-ai/moonshine](https://github.com/moonshine-ai/moonshine) | 11131 | 616 | 2026-08-31 | Very low latency speech to text, intent recognition, and te… |
 | [QuentinFuxa/WhisperLiveKit](https://github.com/QuentinFuxa/WhisperLiveKit) | 11090 | 1139 | 2026-09-21 | Real-time, local speech-to-text with streaming ASR, speaker… |
 | [KoljaB/RealtimeSTT](https://github.com/KoljaB/RealtimeSTT) | 10145 | 860 | 2026-09-17 | A robust, efficient, low-latency speech-to-text library wit… |
 | [Blaizzy/mlx-audio](https://github.com/Blaizzy/mlx-audio) | 7936 | 725 | 2026-09-23 | A text-to-speech (TTS), speech-to-text (STT) and speech-to-… |
-| [buxuku/SmartSub](https://github.com/buxuku/SmartSub) | 5319 | 403 | 2026-09-23 | 视频转字幕、字幕翻译、AI 配音与声音克隆、字幕烧录——免费开源的一站式桌面工具。基于 Whisper / FunAS… |
+| [buxuku/SmartSub](https://github.com/buxuku/SmartSub) | 5319 | 403 | 2026-09-24 | 视频转字幕、字幕翻译、AI 配音与声音克隆、字幕烧录——免费开源的一站式桌面工具。基于 Whisper / FunAS… |
 | [buriburisuri/speech-to-text-wavenet](https://github.com/buriburisuri/speech-to-text-wavenet) | 4004 | 785 | 2021-10-08 | Speech-to-Text-WaveNet : End-to-end sentence level English … |
 | [ufal/whisper_streaming](https://github.com/ufal/whisper_streaming) | 3673 | 409 | 2025-11-12 | Whisper realtime streaming for long speech-to-text transcri… |
 | [matthartman/ghost-pepper](https://github.com/matthartman/ghost-pepper) | 3188 | 187 | 2026-07-27 | 100% private on-device voice models for speech-to-text and … |
@@ -479,7 +473,7 @@ HN 讨论：
 
 | 标题 | 点数 | 评论 |
 |---|---|---|
-| [Gemini 3.8 text-to-speech](https://blog.google/innovation-and-ai/models-and-research/gemini-models/gemini-3-8-text-to-speech/) | 249 | 121 |
+| [Gemini 3.8 text-to-speech](https://blog.google/innovation-and-ai/models-and-research/gemini-models/gemini-3-8-text-to-speech/) | 250 | 124 |
 | [Show HN: Nari Qwen3-TTS and Qwen3-ASR – High accuracy, low …](https://narilabs.com/blog/nari-labs-leads-coval-voice-ai-benchmarks/) | 91 | 31 |
 
 
@@ -488,7 +482,7 @@ HN 讨论：
 | 项目 | star | fork | 最近提交 | 说明 |
 |---|---|---|---|---|
 | [milvus-io/milvus](https://github.com/milvus-io/milvus) | 46242 | 4269 | 2026-09-24 | Milvus is a high-performance, cloud-native vector database … |
-| [qdrant/qdrant](https://github.com/qdrant/qdrant) | 34771 | 2691 | 2026-09-23 | Qdrant - High-performance, massive-scale Vector Database an… |
+| [qdrant/qdrant](https://github.com/qdrant/qdrant) | 34771 | 2691 | 2026-09-24 | Qdrant - High-performance, massive-scale Vector Database an… |
 | [weaviate/weaviate](https://github.com/weaviate/weaviate) | 16841 | 1407 | 2026-09-24 | Weaviate is an open-source vector database that stores both… |
 | [alibaba/zvec](https://github.com/alibaba/zvec) | 15994 | 1003 | 2026-09-23 | A lightweight, lightning-fast, in-process vector database |
 | [rocketride-org/rocketride-server](https://github.com/rocketride-org/rocketride-server) | 10470 | 3815 | 2026-09-23 | High-performance AI pipeline engine with a C++ core and 50+… |
@@ -532,12 +526,12 @@ HN 讨论：
 | [microsoft/mcp-for-beginners](https://github.com/microsoft/mcp-for-beginners) | 17271 | 5618 | 2026-09-22 | This open-source curriculum introduces the fundamentals of … |
 | [modelcontextprotocol/typescript-sdk](https://github.com/modelcontextprotocol/typescript-sdk) | 13444 | 2206 | 2026-09-23 | The official TypeScript SDK for Model Context Protocol serv… |
 | [hangwin/mcp-chrome](https://github.com/hangwin/mcp-chrome) | 12450 | 1144 | 2026-01-06 | Chrome MCP Server is a Chrome extension-based Model Context… |
-| [tadata-org/fastapi_mcp](https://github.com/tadata-org/fastapi_mcp) | 12008 | 968 | 2025-11-24 | Expose your FastAPI endpoints as Model Context Protocol (MC… |
+| [tadata-org/fastapi_mcp](https://github.com/tadata-org/fastapi_mcp) | 12009 | 968 | 2025-11-24 | Expose your FastAPI endpoints as Model Context Protocol (MC… |
 | [TykTechnologies/tyk](https://github.com/TykTechnologies/tyk) | 10830 | 1165 | 2026-09-23 | Open Source API and AI Gateway supporting REST, GraphQL, TC… |
 | [modelcontextprotocol/modelcontextprotocol](https://github.com/modelcontextprotocol/modelcontextprotocol) | 9288 | 1828 | 2026-09-23 | Specification and documentation for the Model Context Proto… |
 | [mark3labs/mcp-go](https://github.com/mark3labs/mcp-go) | 9139 | 884 | 2026-09-23 | A Go implementation of the Model Context Protocol (MCP), en… |
 | [lastmile-ai/mcp-agent](https://github.com/lastmile-ai/mcp-agent) | 8557 | 893 | 2026-01-25 | Build effective agents using Model Context Protocol and sim… |
-| [modelcontextprotocol/registry](https://github.com/modelcontextprotocol/registry) | 7280 | 1002 | 2026-09-23 | A community driven registry service for Model Context Proto… |
+| [modelcontextprotocol/registry](https://github.com/modelcontextprotocol/registry) | 7281 | 1002 | 2026-09-23 | A community driven registry service for Model Context Proto… |
 | [mobile-next/mobile-mcp](https://github.com/mobile-next/mobile-mcp) | 6829 | 602 | 2026-09-23 | Model Context Protocol Server for Mobile Automation and Scr… |
 | [getsentry/MobileBuildMCP](https://github.com/getsentry/MobileBuildMCP) | 6416 | 321 | 2026-09-23 | A Model Context Protocol (MCP) server and CLI that provides… |
 | [jacob-bd/gemini-notebook-mcp-cli](https://github.com/jacob-bd/gemini-notebook-mcp-cli) | 6151 | 933 | 2026-09-22 | Programmatic access to Gemini Notebook - via command-line i… |
@@ -566,8 +560,8 @@ HN 讨论：
 | 项目 | star | fork | 最近提交 | 说明 |
 |---|---|---|---|---|
 | [n8n-io/n8n](https://github.com/n8n-io/n8n) | 205807 | 60867 | 2026-09-24 | Fair-code workflow automation platform with native AI capab… |
-| [HKUDS/nanobot](https://github.com/HKUDS/nanobot) | 48518 | 8576 | 2026-09-23 | Ultra-lightweight, open-source, self-hosted personal AI age… |
-| [activepieces/activepieces](https://github.com/activepieces/activepieces) | 24700 | 4242 | 2026-09-23 | AI Agents & MCPs & AI Workflow Automation • (~400 MCP serve… |
+| [HKUDS/nanobot](https://github.com/HKUDS/nanobot) | 48519 | 8577 | 2026-09-23 | Ultra-lightweight, open-source, self-hosted personal AI age… |
+| [activepieces/activepieces](https://github.com/activepieces/activepieces) | 24700 | 4242 | 2026-09-24 | AI Agents & MCPs & AI Workflow Automation • (~400 MCP serve… |
 | [automatisch/automatisch](https://github.com/automatisch/automatisch) | 13980 | 1065 | 2026-02-11 | The open source Zapier alternative. Build workflow automati… |
 | [tradesdontlie/tradingview-mcp](https://github.com/tradesdontlie/tradingview-mcp) | 6629 | 2746 | 2026-07-28 | AI-assisted TradingView chart analysis — connect Claude Cod… |
 | [ATH-MaaS/ComfyUI-Copilot](https://github.com/ATH-MaaS/ComfyUI-Copilot) | 5526 | 363 | 2026-09-11 | An AI-powered custom node for ComfyUI designed to enhance w… |
@@ -602,4 +596,4 @@ HN 讨论：
 
 ---
 
-生成时间：2026-09-24 01:12 UTC
+生成时间：2026-09-24 01:29 UTC
